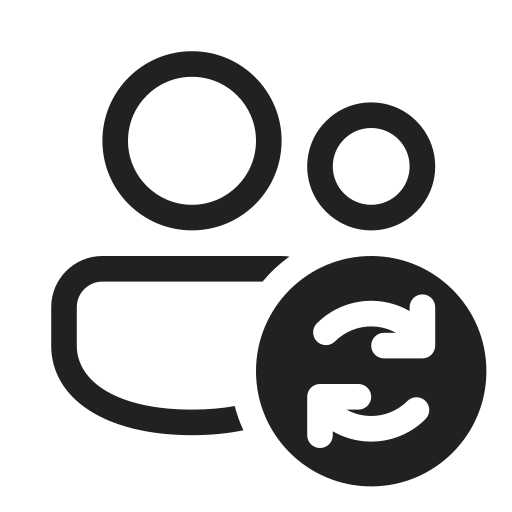
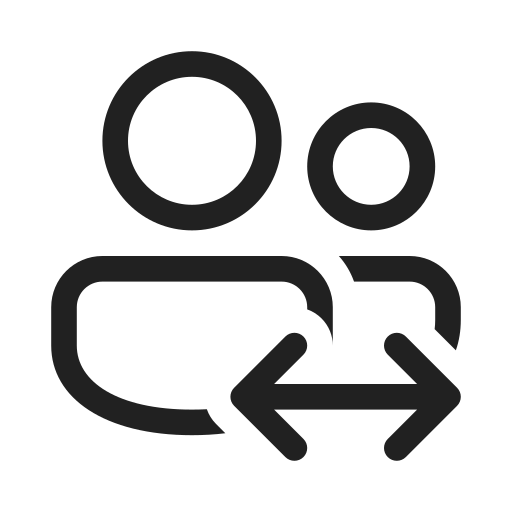
надо доделать выбор детей

Changed region(s): [[0.4062, 0.5, 0.9688, 0.9688]]

diff --git a/GradeTeacher.xaml b/GradeTeacher.xaml
@@ -1,0 +1,30 @@
+<?xml version="1.0" encoding="utf-8" ?>
+<ContentPage xmlns="http://schemas.microsoft.com/dotnet/2021/maui"
+             xmlns:x="http://schemas.microsoft.com/winfx/2009/xaml"
+             x:Class="wave.GradeTeacher"
+             Title="GradeTeacher">
+    <StackLayout Padding="10">
+        <ListView x:Name="gradeList" HasUnevenRows="True">
+            <ListView.ItemTemplate>
+                <DataTemplate>
+                    <ViewCell>
+                        <Grid Margin="5">
+                            <Grid.RowDefinitions>
+                                <RowDefinition Height="Auto" />
+                                <RowDefinition Height="Auto" />
+                            </Grid.RowDefinitions>
+                            <Grid.ColumnDefinitions>
+                                <ColumnDefinition Width="*" />
+                                <ColumnDefinition Width="*" />
+                            </Grid.ColumnDefinitions>
+
+                            <Label Grid.Row="0" Grid.Column="0" Text="{Binding Name}" FontAttributes="Bold" FontSize="Medium"/>
+                            <Label Grid.Row="1" Grid.Column="0" Text="{Binding Date}" FontSize="Small"/>
+                            <Label Grid.Column="1" Grid.RowSpan="2" Text="{Binding Grade}" FontSize="Large" FontAttributes="Italic" HorizontalOptions="End" VerticalOptions="Center" Margin="0,0,15,0"/>
+                        </Grid>
+                    </ViewCell>
+                </DataTemplate>
+            </ListView.ItemTemplate>
+        </ListView>
+    </StackLayout>
+</ContentPage>

diff --git a/ChildChoose.xaml b/ChildChoose.xaml
@@ -1,0 +1,21 @@
+<?xml version="1.0" encoding="utf-8" ?>
+<ContentPage xmlns="http://schemas.microsoft.com/dotnet/2021/maui"
+             xmlns:x="http://schemas.microsoft.com/winfx/2009/xaml"
+             x:Class="wave.ChildChoose"
+             Title="ChildChoose">
+    <VerticalStackLayout>
+        <Label
+            Margin="30"
+            Text="Выберите ребенка:"
+            FontSize="40"
+            VerticalOptions="Center" 
+            HorizontalOptions="Center"/>
+        <Button
+            x:Name="ChildChooseButton"
+            FontSize="30"
+            Margin="20"  
+            Text=""
+            Clicked="CountChildren"/>
+        
+    </VerticalStackLayout>
+</ContentPage>

diff --git a/AttendanceTeacher.xaml b/AttendanceTeacher.xaml
@@ -1,0 +1,12 @@
+<?xml version="1.0" encoding="utf-8" ?>
+<ContentPage xmlns="http://schemas.microsoft.com/dotnet/2021/maui"
+             xmlns:x="http://schemas.microsoft.com/winfx/2009/xaml"
+             x:Class="wave.AttendanceTeacher"
+             Title="AttendanceTeacher">
+    <VerticalStackLayout>
+        <Label 
+            Text="Welcome to .NET MAUI!"
+            VerticalOptions="Center" 
+            HorizontalOptions="Center" />
+    </VerticalStackLayout>
+</ContentPage>

diff --git a/AppShell.xaml b/AppShell.xaml
@@ -18,6 +18,12 @@
         Route="Authorization" 
         Icon="authorization.png"/>
 
+    <ShellContent
+        Title="ChildChoose"
+        ContentTemplate="{DataTemplate local:ChildChoose}"
+        Route="ChildChoose" 
+        Icon="change_child.png"/>
+
     <FlyoutItem x:Name="Home" FlyoutDisplayOptions="AsMultipleItems">
  
         <ShellContent

diff --git a/Authorization.xaml.cs b/Authorization.xaml.cs
@@ -1,4 +1,6 @@
 using Microsoft.Extensions.Logging.Abstractions;
+using Microsoft.Maui.Graphics;
+using MySqlConnector;
 
 namespace wave;
 
@@ -34,8 +36,33 @@ public partial class Authorization : ContentPage
     private async void LoginButtonClicked(object sender, EventArgs e)
     {
         // Navigate to the Home flyout item after button click
-        Login = LoginEntry.Text;
-        await Shell.Current.GoToAsync("//Notification");
+        Login = LoginEntry.Text;        
+        if (!WhoAreYou.isParentSelected)
+        {
+            await Shell.Current.GoToAsync("//Notification");
+        }
+        else
+        {
+            //var cs = ConnString.connString;
+
+            //using (var con = new MySqlConnection(cs))
+            //{
+            //    con.Open();
+
+            //    var cmd = new MySqlCommand(@"SELECT p.parent_id FROM parent p JOIN users u ON p.parent_user_id = u.user_id WHERE u.user_login = Login;", con);
+                
+            //    using (var dr = cmd.ExecuteReader())
+            //    {
+            //        while (dr.Read())
+            //        {
+                        
+            //        }
+            //    }
+
+            //}
+
+                await Shell.Current.GoToAsync("//ChildChoose");
+        }
     }
   
 }

diff --git a/ChildChoose.xaml.cs b/ChildChoose.xaml.cs
@@ -1,0 +1,14 @@
+namespace wave;
+
+public partial class ChildChoose : ContentPage
+{
+	public static string[] children;
+	public ChildChoose()
+	{
+		InitializeComponent();
+	}
+	public async void CountChildren(object sender, EventArgs e)
+	{
+
+	}
+}

diff --git a/AttendanceTeacher.xaml.cs b/AttendanceTeacher.xaml.cs
@@ -1,0 +1,9 @@
+namespace wave;
+
+public partial class AttendanceTeacher : ContentPage
+{
+	public AttendanceTeacher()
+	{
+		InitializeComponent();
+	}
+}

diff --git a/GradeTeacher.xaml.cs b/GradeTeacher.xaml.cs
@@ -1,0 +1,9 @@
+namespace wave;
+
+public partial class GradeTeacher : ContentPage
+{
+	public GradeTeacher()
+	{
+		InitializeComponent();
+	}
+}
